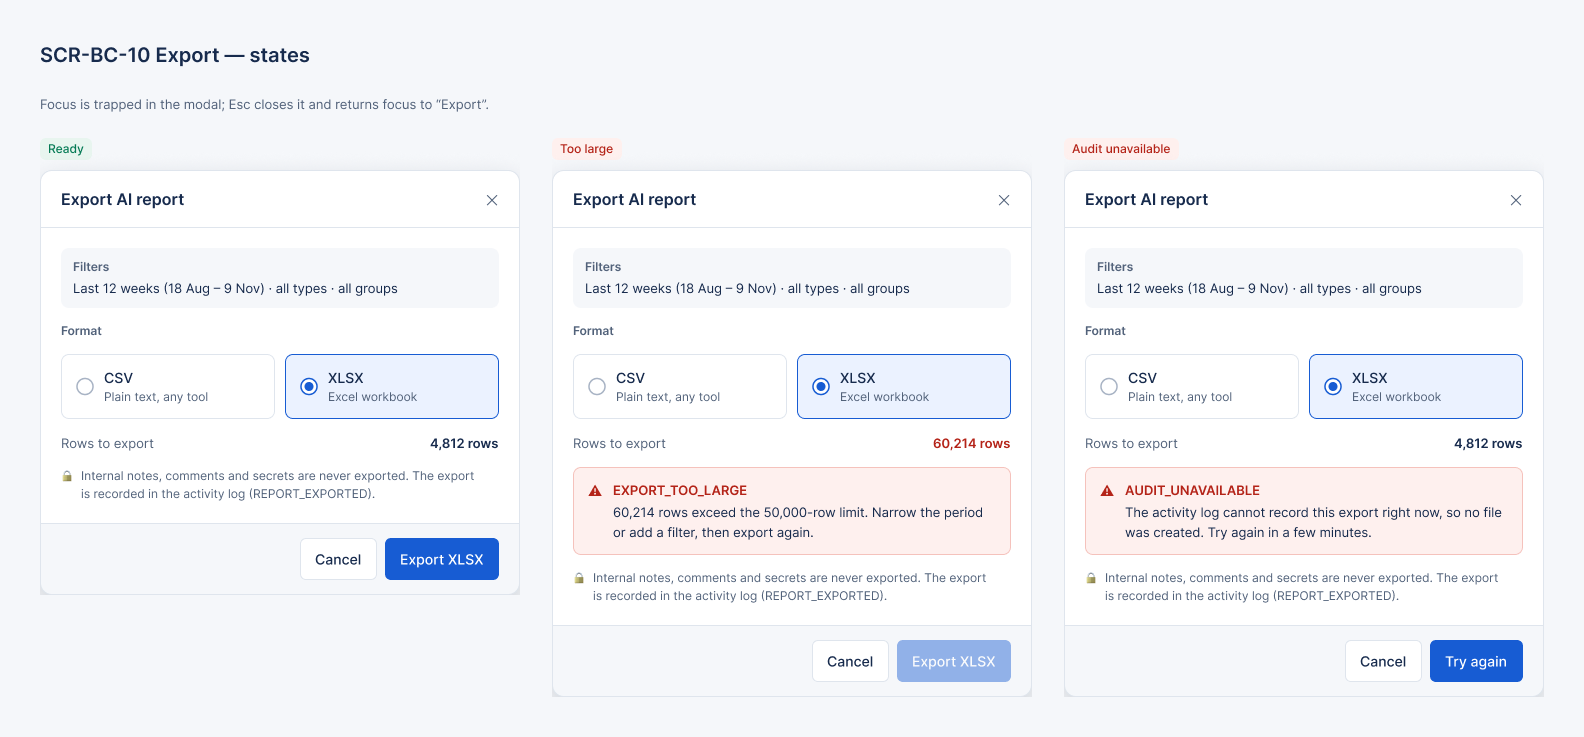
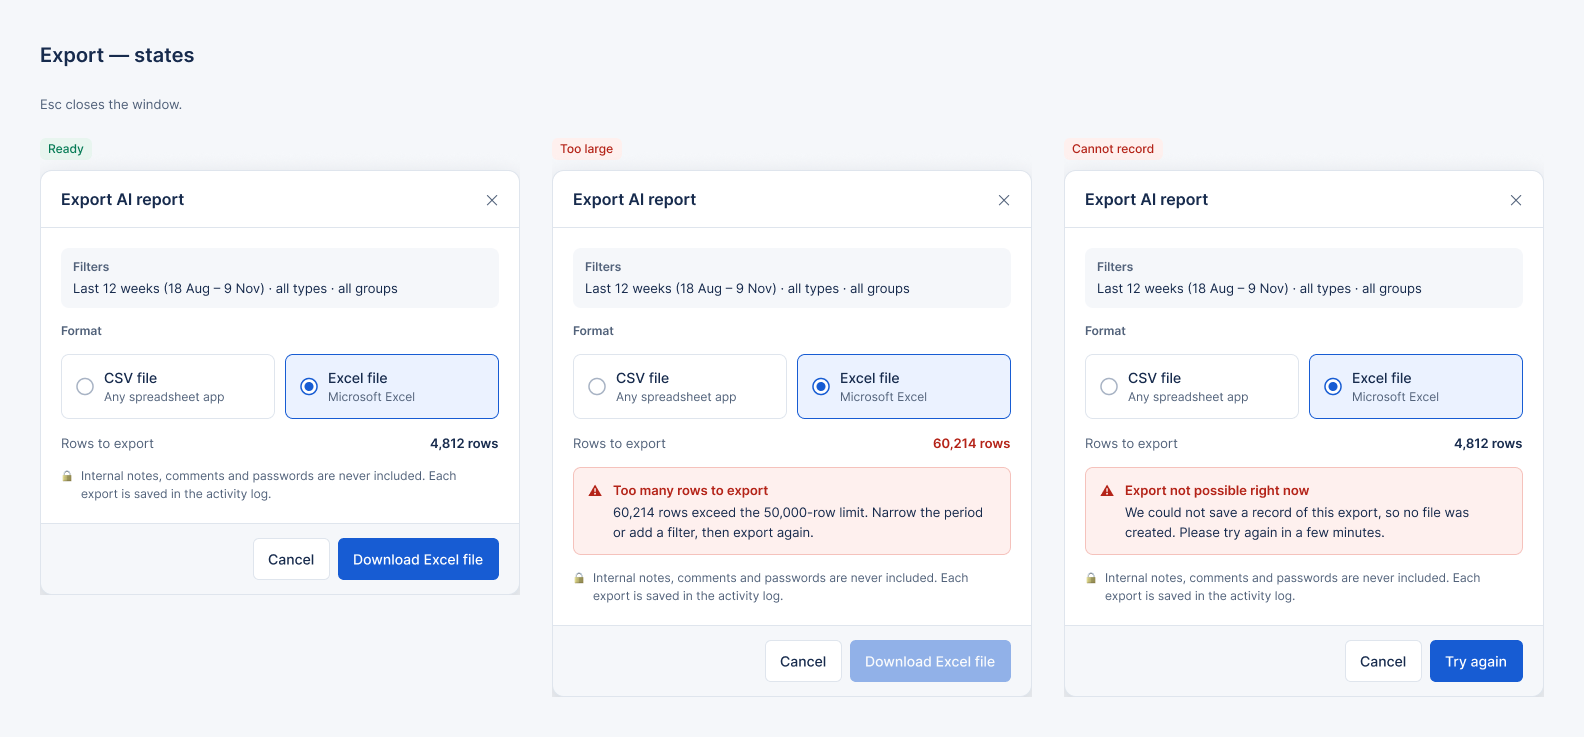
Rewrite governance screens in plain language for non-technical users
The Analytics, Audit, and Users & teams screens showed internal codes
(event names, error codes, metric ids, screen ids, category codes, raw
ids, HTTP request/response bodies). Replace them with short sentences:

- Actions, reasons and changes are written in words ("Access given",
  "Not allowed by the directory", "Before: none / After: read only")
- The automatic action detail tells what happened as a timeline and
  says what to do next; request/response sit behind a collapsed
  "Technical details" row
- Metrics, categories and workload use plain names instead of codes

Re-export images 10-19 in docs/image/admin (01-09 untouched), update
the F07, F08 and F09 screen notes, and add the plain-language rule as
decisions D-BC-UI-07, D-NK-UI-07 and D-UM-UI-07.

Claude-Session: https://claude.ai/code/session_012VGE6sAhSJDjPvTyupzvRZ

diff --git a/docs/f08-activity-log/ui-design/01-screen-notes.md b/docs/f08-activity-log/ui-design/01-screen-notes.md
@@ -18,41 +18,41 @@ Purpose: find who did what, when and why across tickets, rules and settings, and
 
 | # | Element | Note |
 |---|---|---|
-| 1 | Filters, line 1 | Target (free text), actor type, actor, action, period. Active filters are blue. |
-| 2 | Filters, line 2 | Evidence id, agent, model version, prompt version (US-NK-10), *Clear all*. All filters are in the URL (`?actor=&actor_type=&action=&target=&evidence=&agent=&prompt_version=&from=&to=`). |
-| 3 | Table | Time (monospace), actor marker, action code, target (link: ticket → SCR-T-02, setting → its page), summary. Times in Asia/Ho_Chi_Minh (UTC+7), stated in the footer. |
-| 4 | Actor marker | Person / AI + domain agent + prompt version / Automation + rule or run (D-NK-IA-06). |
-| 5 | Correction row | `ENTRY_CORRECTION` — "Corrects entry #88207"; the old entry is not changed. |
-| 6 | Diff panel | Action and entry id; actor, ticket, target; *Before → after* with the words *Removed* / *Added*; masked values as `***` "(Hidden for security)". |
-| 7 | Evidence | `run_id` → SCR-NK-05, `decision_id` → SCR-WF-31, `analysis_id`, model / prompt version. |
-| 8 | No edit or delete | Header pill and the note at the bottom of the panel (D-NK-IA-05). |
+| 1 | Filters, line 1 | Search (free text, e.g. "Accounting shared folder"), *Done by* (person / AI / automatic rule), person, action, period. Active filters are blue. |
+| 2 | Filters, line 2 | Ticket number, AI assistant, AI version (US-NK-10), *Clear all*. All filters are in the URL (`?actor=&actor_type=&action=&target=&evidence=&agent=&prompt_version=&from=&to=`). |
+| 3 | Table | Time, *Done by*, action as words ("Access given", "Sent to a technician"; the code is kept for filtering only), *About* (link: ticket → SCR-T-02, setting → its page), details as a sentence ("Lan Nguyen can now open the folder (read only)"). Times in Asia/Ho_Chi_Minh (UTC+7), stated in the footer. |
+| 4 | Done by | Person with role / **AI** badge + assistant name + "decided on its own" / Automation + rule name (D-NK-IA-06). |
+| 5 | Correction row | "Correction added" — "Fixes an earlier entry: wrong person named"; the old entry is not changed. |
+| 6 | Side panel | Action and time; done by, ticket, about; **What changed** written as sentences ("Before — Access: none", "After — Access: can open, cannot edit", "Added to group: Finance – Accounting (read only)"); passwords shown as "hidden for security". |
+| 7 | Related | *Open the automatic action* → SCR-NK-05, *See why the AI approved* → SCR-WF-31, AI version. Raw ids (`run_id`, `decision_id`) are not shown. |
+| 8 | No edit or delete | Header pill and the note "Entries cannot be changed or deleted. To fix a mistake, an administrator adds a correction." (D-NK-IA-05). |
 
 | State | Source | Behavior |
 |---|---|---|
 | default | `READY` | As in the PNG; first row selected. |
 | loading | `LOADING` | Skeleton rows; filters stay usable. |
-| empty | `EMPTY` | "No events for these filters. Clear a filter or widen the period." |
-| masked | `MASKED` | `***` with the tooltip "Hidden for security", in the diff panel. |
-| invalid period | `ERROR` `422 INVALID_DATE_RANGE` | Message under the filters; previous results kept. |
+| empty | `EMPTY` | "Nothing found — No entries match. Remove a filter or choose a longer period." |
+| masked | `MASKED` | "hidden for security" in place of the value. |
+| invalid period | `ERROR` `422 INVALID_DATE_RANGE` | "Period too long — Choose a period of one year or less." Previous results kept. |
 | not admin | `FORBIDDEN` | SCR-90; the Audit group is not in the sidebar. |
 
 Accessibility: rows and evidence links are reachable by keyboard; Esc closes the panel and returns focus to its row; removed / added values are labelled in text, not only by color.
 
-### SCR-NK-04 Workflow runs — `/audit/workflow-runs` · Admin · [PNG](../../image/admin/15_SCR-NK-04_Workflow-runs.png)
+### SCR-NK-04 Workflow runs (shown as "Automatic actions") — `/audit/workflow-runs` · Admin · [PNG](../../image/admin/15_SCR-NK-04_Workflow-runs.png)
 
 Purpose: find failing automated actions across tickets and the connector behind them (US-NK-06, US-NK-07).
 
-**Layout:** page header with *Export CSV*; alert banner; four counters; filter bar; table with paging; legend of the status chips.
+**Layout:** page header "Automatic actions" with *Export*; alert banner; four counters; filter bar; table with paging; legend of the status chips.
 
 ![SCR-NK-04](../../image/admin/15_SCR-NK-04_Workflow-runs.png)
 
 | # | Element | Note |
 |---|---|---|
-| 1 | Alert banner | "37 runs failed since 08:00 — all on connector AD-Directory with error PERMANENT_4XX" with *Filter these runs* (Flow 3, step 2). |
+| 1 | Alert banner | "37 automatic actions failed since 08:00. The company directory refused them: the service desk account is not allowed to make these changes." with *Show these* (Flow 3, step 2). |
 | 2 | Counters | In progress, Succeeded, Failed, Resolved manually — counters by status. |
-| 3 | Filters | Ticket or run id, status, error type, operation, connector, period (`?status=&error=&operation=&connector=&ticket=&from=&to=`). |
-| 4 | Table | Run id → SCR-NK-05, ticket → SCR-T-02, operation, status chip, error type, attempts, started, duration. |
-| 5 | Status chips | In progress groups `QUEUED`, `RUNNING`, `RETRY_WAIT`, `VERIFYING`; the exact status is in the tooltip. |
+| 3 | Filters | Ticket number, status, reason ("Not allowed"), action, system ("Company directory"), period (`?status=&error=&operation=&connector=&ticket=&from=&to=`). |
+| 4 | Table | No. (#903 → SCR-NK-05), ticket → SCR-T-02, action in words ("Add to group", "Reset MFA", "Give folder access"), status chip, reason in words ("Not allowed"), tries, started, took. |
+| 5 | Status chips | In progress groups `QUEUED`, `RUNNING`, `RETRY_WAIT`, `VERIFYING`; hovering shows the step in words. |
 
 | State | Source | Behavior |
 |---|---|---|
@@ -63,26 +63,26 @@ Purpose: find failing automated actions across tickets and the connector behind 
 | invalid period | `ERROR` | Message under the filters; previous results kept. |
 | not admin | `FORBIDDEN` | SCR-90; technicians see runs in the ticket's Automation tab. |
 
-### SCR-NK-05 Workflow run detail — `/audit/workflow-runs/:id` · Admin · [PNG](../../image/admin/16_SCR-NK-05_Workflow-run-detail.png)
+### SCR-NK-05 Workflow run detail (shown as an automatic action) — `/audit/workflow-runs/:id` · Admin · [PNG](../../image/admin/16_SCR-NK-05_Workflow-run-detail.png)
 
-Purpose: see why one run failed: each attempt with the masked request and response (US-NK-06, US-NK-09).
+Purpose: understand in plain words why one automatic action failed and what to do next (US-NK-06, US-NK-09).
 
-**Layout:** back link *‹ Workflow runs*; header with run id, operation, *Open ticket*; summary card; failure banner; attempts card; note on actions.
+**Layout:** back link *‹ Automatic actions*; title as a sentence ("Add Bao Vu to the Marketing shared folder"), *Open ticket*; summary card; failure banner; **What happened** card; note on actions.
 
 ![SCR-NK-05](../../image/admin/16_SCR-NK-05_Workflow-run-detail.png)
 
 | # | Element | Note |
 |---|---|---|
-| 1 | Summary | Ticket, requester, connector, started by (Automation · AI decision → SCR-WF-31), operation, who got the ticket after the failure. Status chip and error type in the card header. |
-| 2 | Failure banner | "Approved — execution failed", the reason, and that the ticket went to a technician (`FAILED_STEP`). |
-| 3 | Attempts | One card per attempt: time, duration, result code (warning for transient, danger for permanent); request and response side by side; tokens and accounts as `***`. |
-| 4 | Collapsed attempt | Middle attempts collapse to one line. |
-| 5 | Action note | *Retry* and *Resolved manually* are on the ticket's Automation tab (F05 SCR-WF-20, 21); each retry adds attempts here. |
+| 1 | Summary | Ticket, requester, system ("Company directory"), why it ran (*The AI approved the request* → SCR-WF-31), change in words, who handles it now. Status chip and the reason ("Not allowed by the directory") in the card header. |
+| 2 | Failure banner | "Approved, but the change could not be made" with the reason in one sentence and who got the ticket (`FAILED_STEP`). |
+| 3 | What happened | A timeline in plain words: "Tried to add Bao Vu to the group — the company directory was busy…", "Tried again", "Refused — the service desk account is not allowed…", "Handed to a technician". Dot color: amber = temporary problem, red = refused, blue = handed over. |
+| 4 | What to do next | Numbered steps: ask the directory administrator for permission, then *Try again* on the ticket. |
+| 5 | Technical details | Collapsed row "Technical details for the IT developer team"; only there are the masked request and response shown. *Try again* and *Resolved manually* stay on the ticket's Automation tab (F05 SCR-WF-20, 21). |
 
 | State | Source | Behavior |
 |---|---|---|
 | failed | `FAILED_STEP` | As in the PNG. |
-| succeeded | `READY` | No failure banner; status chip ✓ Succeeded; attempts show the verification step. |
-| in progress | `READY` | Chip ◷ In progress; the last attempt shows "waiting for retry" with the next time. |
-| audit unavailable | AC-NK-09.1, BR-NK-06 | Chip ✕ Failed with `AUDIT_UNAVAILABLE`; banner "The 'execution started' entry could not be written, so the connector was not called. The ticket went to a technician." No attempt cards. |
+| succeeded | `READY` | No failure banner; status chip ✓ Succeeded; the timeline ends with "Checked: the change is in place". |
+| in progress | `READY` | Chip ◷ In progress; the last line says "Will try again at 09:55". |
+| audit unavailable | AC-NK-09.1, BR-NK-06 (`AUDIT_UNAVAILABLE`) | Chip ✕ Failed; banner "The change was not made because it could not be recorded in the activity log. The ticket went to a technician." |
 | not admin | `FORBIDDEN` | SCR-90. |

diff --git a/docs/f07-reports-analytics/ui-design/01-screen-notes.md b/docs/f07-reports-analytics/ui-design/01-screen-notes.md
@@ -12,21 +12,21 @@ Each screen lists its purpose, its layout, the elements worth noting and its sta
 
 Purpose: show whether the AI is on track for the self-resolution target, why tickets still go to a person, and whether the AI output is good (US-BC-04, US-BC-08, US-BC-09).
 
-**Layout:** page header (title "Reports", *Export*); tabs Tickets / SLA / **AI** / Satisfaction; filter bar; five tiles; two rows of two cards; the Quality card full width.
+**Layout:** page header (title "Reports", subtitle "Click any number to see the tickets behind it", *Export*); tabs Tickets / SLA / **AI** / Satisfaction; filter bar; five tiles; two rows of two cards; the Quality card full width.
 
 ![SCR-BC-03](../../image/admin/10_SCR-BC-03_Reports-AI.png)
 
 | # | Element | Note |
 |---|---|---|
-| 1 | Filter bar | Period (default *Last 12 weeks*, highlighted when not the default), type, domain, group, priority, channel, handler. The line under it is "Parameters in use: Asia/Ho_Chi_Minh · N = 7 days · target 50%". Filters live in the URL (D-BC-IA-01). |
-| 2 | Tile **AI self-resolution (M-04)** | 41.2% with "3,280 of 7,962 · last full week": a rate always comes with its count (UI states §3). |
-| 3 | Tile **Under observation** | 312 tickets closed less than N days ago; not counted in M-04 yet (`UNDER_OBSERVATION`). |
-| 4 | Tiles **Auto-approved (A)**, **Asked back (B)**, **Routed to person (C)** | M-08 routing outcome with counts. |
-| 5 | Chart **AI self-resolution by week** | Weekly purple line, dashed red **Target 50%** line, **AI** badge, *View as table*, and a text summary under the chart. |
-| 6 | Card **Self-resolved by path** | Automation, agent KB answer, self-help, after an AI question; then the split by domain agent. |
-| 7 | Card **Route C — why tickets went to a person** | Ranked reasons; each reason opens SCR-T-04 with the same filters (Flow 1, step 4). |
-| 8 | Card **Escalations by class (M-10)** | `escalationClass` codes with count and share. |
-| 9 | Card **Quality** | Filters *Model* and *Prompt*; tiles M-05, M-06, M-11; table of recent corrected classifications (AI category → human category, by, prompt version). |
+| 1 | Filter bar | Period (default *Last 12 weeks*, highlighted when not the default), type, domain, group, priority, channel, handler. The line under it says, in words, which settings are used: "Vietnam time · a ticket counts as solved by the AI only if it is not reopened within 7 days · target 50%". Filters live in the URL (D-BC-IA-01). |
+| 2 | Tile **Solved by AI alone** (M-04) | 41.2% with "3,280 of 7,962 · last full week": a rate always comes with its count (UI states §3). |
+| 3 | Tile **Not counted yet** | 312 tickets closed in the last 7 days; not counted in M-04 yet (`UNDER_OBSERVATION`). |
+| 4 | Tiles **Done automatically**, **AI asked for details**, **Sent to a technician** | M-08 routes A, B, C with counts. |
+| 5 | Chart **Tickets solved by AI alone, week by week** | Weekly purple line, dashed red **Target 50%** line, **AI** badge, *View as table*, and a summary in plain words under the chart ("In short: …"). |
+| 6 | Card **How the AI solved them** | "Did the change itself", "Answered with a help article", "User found an answer before sending", "After the AI asked for details"; then the split by AI assistant (domain agent). |
+| 7 | Card **Why tickets still went to a technician** | Ranked reasons in plain words (e.g. "Requested access is not on the approved list"); each reason opens the ticket list SCR-T-04 with the same filters (Flow 1, step 4). |
+| 8 | Card **Why the AI handed tickets over** (M-10) | Each `escalationClass` shown as a sentence: "AI could not fix it" (`AGENT_CANNOT_RESOLVE`), "User said it was not fixed", "AI was not sure enough", "Automatic change failed", "AI was offline". |
+| 9 | Card **How accurate the AI is** | Filters *AI version* and *Compare with* (model / prompt version, US-BC-09); tiles "Wrong category, fixed by technicians" (M-05), "Closed by AI, then reopened" (M-06), "AI answer did not help" (M-11); table of recently corrected categories using category names ("Printer" → "Docking & monitors"), never codes. |
 
 | State | Source | Behavior |
 |---|---|---|
@@ -47,13 +47,13 @@ Purpose: set the parameters that change how figures are computed for everyone, a
 
 | # | Element | Note |
 |---|---|---|
-| 1 | Header note | "Changes apply to every report and are recorded in the activity log (`REPORT_CONFIG_UPDATED`)" (BR-BC-05). |
-| 2 | Info banner | "SLA targets are not set here" with the link *Open SLA policies (SCR-WF-02)*. |
+| 1 | Header note | "Changes affect every report. Each change is saved in the activity log." (logged as `REPORT_CONFIG_UPDATED`, BR-BC-05). |
+| 2 | Info banner | "Response and resolution targets are not set here" with the link *Open SLA policies* (SCR-WF-02). |
 | 3 | Card header meta | "Last changed by Thu Le · 3 Nov 2026 09:12". |
-| 4 | Observation window (N) | Read-only input, tag "Read-only · from F03". |
-| 5 | AI self-resolution target, low-response threshold, maximum report period | Number inputs with unit and allowed range. |
-| 6 | Export row limit, formats | Limit used by `EXPORT_TOO_LARGE`; note that notes, comments and secrets are never exported. |
-| 7 | Weekly digest | Schedule badge (Monday 08:00, Asia/Ho_Chi_Minh), recipients as removable chips, *Send test digest* with the last test time. |
+| 4 | **Wait before counting as solved** (N) | Read-only input, tag "Set in ticket settings" (F03 reopen window). |
+| 5 | **Target for tickets solved by AI**, **Minimum share of users who rate**, **Maximum report period** | Number inputs with unit, allowed range and a help sentence. |
+| 6 | Export row limit, formats | "Bigger exports are stopped and the user is asked to choose a shorter period" (`EXPORT_TOO_LARGE`); formats CSV and Excel. |
+| 7 | **Weekly summary e-mail** (EML-BC-01) | Schedule badge "Every Monday at 8:00", recipients as removable chips, *Send me a test* with the last test time. |
 
 | State | Source | Behavior |
 |---|---|---|
@@ -74,15 +74,15 @@ Purpose: download the figures of the current tab with its filters as CSV or XLSX
 | # | Element | Note |
 |---|---|---|
 | 1 | Filters | The filters of the tab, read-only; the export uses exactly these. |
-| 2 | Format | Two radio cards, CSV and XLSX. |
+| 2 | Format | Two radio cards, "CSV file" and "Excel file". |
 | 3 | Rows to export | Count before export; red when above the limit. |
-| 4 | Note | "Internal notes, comments and secrets are never exported. The export is recorded in the activity log (`REPORT_EXPORTED`)." |
+| 4 | Note | "Internal notes, comments and passwords are never included. Each export is saved in the activity log." (logged as `REPORT_EXPORTED`). |
 
 | State | Source | Behavior |
 |---|---|---|
-| Ready | Initial | 4,812 rows, *Export XLSX* enabled. |
-| Too large | `EXPORT_TOO_LARGE` (Flow 3, branch 3) | 60,214 rows; danger banner asks to narrow the period or add a filter; *Export* disabled. |
-| Audit unavailable | `AUDIT_UNAVAILABLE` (Flow 3, branch 4) | No file is created; banner asks to try later; the primary button becomes *Try again*. |
+| Ready | Initial | 4,812 rows, *Download Excel file* enabled. |
+| Too large | `EXPORT_TOO_LARGE` (Flow 3, branch 3) | 60,214 rows; banner "Too many rows to export" asks to narrow the period or add a filter; the download button is disabled. |
+| Cannot record | `AUDIT_UNAVAILABLE` (Flow 3, branch 4) | Banner "Export not possible right now": no file is created, try again in a few minutes; the primary button becomes *Try again*. |
 | exporting | Saving / Processing | Button "Exporting…" disabled; the modal stays open until the file starts downloading. |
 
 Accessibility: focus is trapped in the modal, Esc closes it, and focus returns to *Export* (UI states §5).

diff --git a/docs/f09-user-management/ui-design/01-screen-notes.md b/docs/f09-user-management/ui-design/01-screen-notes.md
@@ -18,10 +18,10 @@ Purpose: find users, see their role, access scope and availability, and enable o
 
 | # | Element | Note |
 |---|---|---|
-| 1 | Header meta | "Synced from the company directory · last sync today 10:02 · every change is logged". |
+| 1 | Header meta | "Copied from the company directory · last updated today 10:02". |
 | 2 | Filters | Name or e-mail, role, department, team, status. In the PNG: *Role: Technician*. |
 | 3 | Bulk action bar | "2 selected" with Enable, Disable, Change role, Add to team, *Clear selection*. Selected rows are blue. |
-| 4 | Table | Checkbox, name + e-mail, department, role badge, access scope (teams), availability (`ON · 7 / 12` or `OFF · on leave`), status badge, last sign-in. |
+| 4 | Table | Checkbox, name + e-mail, department, role badge, teams, availability ("Available · 7 tickets" or "Away · on leave"), status badge, last sign-in. |
 | 5 | Row actions | *Edit* (opens SCR-UM-02), *Disable* / *Enable*, *Log* (SCR-NK-02 filtered on the user). |
 | 6 | Note | Disabling signs the user out and returns open tickets to the team queue; *Add user* is for staff not in the directory. |
 
@@ -46,8 +46,8 @@ Purpose: change a user's role, access scope and assignment settings, or disable 
 |---|---|---|
 | 1 | Profile | Display name and department read-only (from the directory). |
 | 2 | Role | Three radio cards: Requester, Technician, Administrator, each with one line on what it allows. |
-| 3 | Access scope | Tree of teams and sub-groups with checkboxes; a parent with some children checked shows a partial mark. Required for Technician. |
-| 4 | Assignment | Toggle *Available for automatic assignment (ON)* and *Maximum open tickets*. |
+| 3 | Teams they work for (access scope) | Tree of teams and sub-groups with checkboxes; a parent with some children checked shows a partial mark. Required for Technician. |
+| 4 | Assignment | Toggle *Can receive new tickets automatically* and *Most tickets at once*. |
 | 5 | Account status | Red zone: "Disabling signs Minh out now and returns 7 open tickets to Network L1 / L2 queues", *Disable user*. |
 | 6 | Footer | *View log for this user →*, *Cancel*, *Save changes*. |
 
@@ -73,19 +73,19 @@ Purpose: maintain the structure that routing uses: teams, sub-groups, the subcat
 
 | # | Element | Note |
 |---|---|---|
-| 1 | Header text | "A ticket goes to the group of its domain, then the sub-group of its subcategory, then a member who is ON and least loaded." |
-| 2 | Structure tree | Teams with their domain (`NETWORK/*`) and member count; sub-groups indented; the selected node has a blue bar. *Triage queue* is the default team. |
-| 3 | Empty sub-group | Badge *Empty* in the tree (Wi-Fi). |
-| 4 | Team header | Name, "Sub-group of Network", support level `L1`; *View log*, *Add sub-group*, *Edit*. |
-| 5 | Properties | Subcategories handled (`NETWORK/VPN`, `NETWORK/LAN`, `NETWORK/DNS`), AI agent as first handler, business calendar. |
-| 6 | Counters | Members ON, open tickets (with the number waiting in the team queue), average workload score. |
-| 7 | Members | Add by name; table with availability toggle and reason, open / max bar (red above 85%), workload score, *Remove*. |
-| 8 | Warning | "Sub-group Wi-Fi has no members. Its NETWORK/WIFI tickets go to Network L1 until someone is added." |
+| 1 | Header text | "New tickets go to the right team first, then to the least busy person who is available." |
+| 2 | Structure tree | Teams with member count; sub-groups indented; the selected node has a blue bar. *Triage queue* "catches unclear tickets". |
+| 3 | Empty sub-group | Badge *No members* in the tree (Wi-Fi). |
+| 4 | Team header | Name, "Part of Network", "Level 1"; *View log*, *Add sub-group*, *Edit*. |
+| 5 | Properties | "Handles requests about" VPN, Office network, Website names (DNS) — category names, never codes; "AI assistant (tries first)"; working hours. |
+| 6 | Counters | Available now, open tickets ("5 not yet picked up"), how busy the team is ("Normal") instead of a numeric workload score. |
+| 7 | Members | Add by name; table with availability toggle ("Available" / "Away · on leave"), tickets now (bar, red above 85%), busy level (Light / Normal / High), *Remove*. |
+| 8 | Warning | "Wi-Fi has no members yet. Wi-Fi tickets go to Network L1 until someone is added." |
 
 | State | Source | Behavior |
 |---|---|---|
 | default | Initial | Network L1 selected. |
 | empty team selected | Empty | "No members yet" with *Add member*, and the warning of #8. |
-| subcategory taken | Validation | Adding a subcategory already handled by another sub-group: "NETWORK/VPN is handled by Network L2. Move it here?" |
+| subcategory taken | Validation | Adding a request type already handled by another sub-group: "VPN is handled by Network L2. Move it here?" |
 | saving | Saving / Processing | Member row shows a spinner while the change is saved. |
 | not admin | 403 | SCR-90. |

diff --git a/docs/f08-activity-log/ui-design/README.md b/docs/f08-activity-log/ui-design/README.md
@@ -6,11 +6,11 @@
 
 This folder turns the F08 [information architecture](../information-architecture/README.md) into high-fidelity screens. They were drawn in Figma on the shared template *Service Desk UI – DS-01 Relay* (row **5 · Governance detail — Audit (F08)**) and exported to PNG. The scope is the **Audit** area of the Admin: the activity log and the workflow runs with their detail page.
 
-The screens show the F08 rules on a page: no edit, delete or hide control anywhere (D-NK-IA-05), every entry says who did it with an icon and text (D-NK-IA-06), secrets are always `***` (BR-NK-03), and every automated entry links to its evidence. Inputs: [Screens and navigation](../information-architecture/01-screens-and-navigation.md), [User flows](../information-architecture/02-user-flows.md), [UI states](../information-architecture/03-ui-states-and-accessibility.md) and [Acceptance criteria](../04-acceptance-criteria.md).
+The screens show the F08 rules on a page: no edit, delete or hide control anywhere (D-NK-IA-05), every entry says who did it with an icon and text (D-NK-IA-06), passwords are always hidden (BR-NK-03), every automated entry links to what caused it, and everything is written in plain words for non-technical readers (D-NK-UI-07). Inputs: [Screens and navigation](../information-architecture/01-screens-and-navigation.md), [User flows](../information-architecture/02-user-flows.md), [UI states](../information-architecture/03-ui-states-and-accessibility.md) and [Acceptance criteria](../04-acceptance-criteria.md).
 
 | File | Content |
 |---|---|
-| [00-decisions.md](00-decisions.md) | Design decisions D-NK-UI-01 … D-NK-UI-06, what is not drawn yet |
+| [00-decisions.md](00-decisions.md) | Design decisions D-NK-UI-01 … D-NK-UI-07, what is not drawn yet |
 | [01-screen-notes.md](01-screen-notes.md) | Per screen: purpose, layout, annotated elements, and every state |
 | [`../../image/admin/`](../../image/admin/) | PNG exports of the Figma frames (shared Admin image folder) |
 | [Figma file](https://www.figma.com/design/Dfak5zzpiXKxVEqvTOZLdJ/Service-Desk-UI-%E2%80%93-DS-01-Relay?node-id=0-1) | Source frames; the same names as the PNGs below |
@@ -32,9 +32,9 @@ Same template and tokens as the other Admin pages (see [F07 UI design](../../f07
 | Part | Value |
 |---|---|
 | Shell | Module tab **Activity log** active; sidebar group **Audit** with *Activity log* and *Workflow runs* (badge = failed runs today) |
-| Codes and times | Cousine (monospace) for action codes, run ids, times and request / response bodies |
-| Actor marker | Person: 👤 icon + name + role; AI: `AI` badge (purple) + domain agent + prompt version; Automation: ⚙ icon + "Automation" + rule or run |
+| Language | Plain sentences only (D-NK-UI-07): actions, reasons and changes in words; no event codes, error codes or raw ids. Cousine (monospace) only for times |
+| *Done by* marker | Person: 👤 icon + name + role; AI: `AI` badge (purple) + assistant name + "decided on its own"; Automation: ⚙ icon + "Automation" + rule name |
 | Run status chips | ◷ In progress (info), ✓ Succeeded (success), ✕ Failed (danger), 👤 Resolved manually (neutral) — icon and text, never color alone (UI states §3) |
-| Diff | Removed line on red `#FEF0EE` with the word *Removed*; added line on green `#E8F5EF` with the word *Added* |
+| What changed | Old value on red `#FEF0EE` with the word *Before*; new value on green `#E8F5EF` with the word *After*; other changes as plain lines |
 
 **Related:** [F08 README](../README.md) · [Information architecture](../information-architecture/README.md) · [Decisions](00-decisions.md) · [Screen notes](01-screen-notes.md)

diff --git a/docs/f08-activity-log/ui-design/00-decisions.md b/docs/f08-activity-log/ui-design/00-decisions.md
@@ -8,12 +8,13 @@
 
 | ID | Decision | Why |
 |---|---|---|
-| D-NK-UI-01 | The activity log is a table with a **diff side panel** for the selected row (selected row: blue background and a 3 px left bar). | Matches UI states §4 (≥ 1200 px); the Admin compares entries without leaving the list. |
+| D-NK-UI-01 | The activity log is a table with a **side panel showing what changed** for the selected row (selected row: blue background and a 3 px left bar). | Matches UI states §4 (≥ 1200 px); the Admin compares entries without leaving the list. |
 | D-NK-UI-02 | A grey pill "🔒 Append-only · no edit or delete" sits in the page header, and the panel ends with "This entry cannot be edited or deleted". | Makes D-NK-IA-05 visible instead of only hiding controls. |
 | D-NK-UI-03 | Corrections are ordinary rows with the action `ENTRY_CORRECTION` and the text "Corrects entry #…" linking to the old entry. | The old entry stays unchanged (UI states §1, *Correction*). |
 | D-NK-UI-04 | Workflow runs opens with a danger banner when one connector causes most failures, with *Filter these runs*. | Flow 3: the Admin finds the broken connector in one click. |
-| D-NK-UI-05 | Run detail shows attempts as cards with request and response side by side in a dark code block; attempts in the middle are collapsed to one line. | Long runs stay short; the first and the last attempt explain the failure. |
+| D-NK-UI-05 | Run detail tells the story as a timeline of sentences ("Tried…", "Refused…", "Handed to a technician") followed by **What to do next**; request and response are only in a collapsed "Technical details for the IT developer team" row. | The Admin needs the reason and the next step, not the HTTP exchange. |
 | D-NK-UI-06 | Run detail has no *Retry* or *Resolved manually* button; a note points to the ticket's Automation tab. | F05 owns those actions (D-NK-IA-03, SCR-WF-20 / 21). |
+| D-NK-UI-07 | **Plain language only.** The Audit pages are read by people who are not developers. Labels, messages and changes are written as short sentences ("Access given", "Not allowed by the directory"); internal codes (event names, error codes, metric ids, screen ids, category codes, raw ids, request / response bodies) are not shown. Codes stay in the data for filtering and in these docs for traceability; where a developer needs them, they sit behind a collapsed "Technical details" row. | Feedback on the first draft: the screens looked like developer logs. |
 
 ## Not drawn yet
 

diff --git a/docs/f07-reports-analytics/ui-design/README.md b/docs/f07-reports-analytics/ui-design/README.md
@@ -10,7 +10,7 @@ The screens show how the rules of F07 look on a page: every rate comes with its 
 
 | File | Content |
 |---|---|
-| [00-decisions.md](00-decisions.md) | Design decisions D-BC-UI-01 … D-BC-UI-06, what is not drawn yet |
+| [00-decisions.md](00-decisions.md) | Design decisions D-BC-UI-01 … D-BC-UI-07, what is not drawn yet |
 | [01-screen-notes.md](01-screen-notes.md) | Per screen: purpose, layout, annotated elements, and every state |
 | [`../../image/admin/`](../../image/admin/) | PNG exports of the Figma frames (shared Admin image folder) |
 | [Figma file](https://www.figma.com/design/Dfak5zzpiXKxVEqvTOZLdJ/Service-Desk-UI-%E2%80%93-DS-01-Relay?node-id=0-1) | Source frames; the same names as the PNGs below |
@@ -32,7 +32,7 @@ The frames reuse the template, so they match the other Admin pages of the file (
 | Part | Value |
 |---|---|
 | Shell | Top bar 58 px with the module tabs (*Dashboard* is active for Reports); sidebar 220 px with the groups **Reports** and **Settings**; content 1012 px wide, padding 20 / 24 |
-| Type | Inter: page title 24 Semi Bold, card title 14 Semi Bold, body 13–14, caption 12; Cousine for codes (`AGENT_CANNOT_RESOLVE`) |
+| Type | Inter: page title 24 Semi Bold, card title 14 Semi Bold, body 13–14, caption 12. Plain words only, no internal codes on screen (D-BC-UI-07) |
 | Color | Ink `#172B4D`, secondary `#52627A`, border `#DFE5ED`, page `#F5F7FA`, primary `#175CD3`, AI `#6941C6`, success `#057A55`, warning `#8A5100`, danger `#B42318` |
 | Components | Local components `WB/Button` (primary / secondary, md / sm), `WB/Badge` (info, warning, success, danger, neutral, ai), `WB/KPI card` |
 | Charts | One metric per chart, AI series in purple, target as a dashed red line with the label "Target 50%", text summary under the chart and *View as table* (UI states §3) |

diff --git a/docs/f09-user-management/ui-design/00-decisions.md b/docs/f09-user-management/ui-design/00-decisions.md
@@ -14,6 +14,7 @@
 | D-UM-UI-04 | The access scope is a **tree of teams and sub-groups** with checkboxes (a parent shows a partial mark). | Matches how F05 routes: group → sub-group → member. |
 | D-UM-UI-05 | Disabling a user is a red zone at the bottom of the drawer that says how many open tickets go back to which queue. | The effect is immediate and affects tickets; the Admin must see it before confirming. |
 | D-UM-UI-06 | Teams is a two-pane page: the structure tree on the left, the selected team on the right with its subcategories, AI agent, calendar, counters and members. A sub-group with no members shows a warning in the tree and in the detail. | An empty sub-group silently sends its tickets to the parent group; making it visible avoids surprise routing. |
+| D-UM-UI-07 | **Plain language only.** The Users and Teams pages are read by people who are not developers. Labels, messages and changes are written as short sentences ("Access given", "Not allowed by the directory"); internal codes (event names, error codes, metric ids, screen ids, category codes, raw ids, request / response bodies) are not shown. Codes stay in the data for filtering and in these docs for traceability; where a developer needs them, they sit behind a collapsed "Technical details" row. | Feedback on the first draft: the screens looked like developer logs. |
 
 ## Assumptions to confirm with the F09 specification
 

diff --git a/docs/f07-reports-analytics/ui-design/00-decisions.md b/docs/f07-reports-analytics/ui-design/00-decisions.md
@@ -14,6 +14,7 @@
 | D-BC-UI-04 | Route C reasons are a ranked list where each reason is a link with a bar and its count. | The reason opens SCR-T-04 with the same filters (D-BC-IA-04); a ranked list reads faster than a chart. |
 | D-BC-UI-05 | Report settings is one form in three cards (*How figures are computed*, *Export*, *Weekly digest*) with *Save changes* in the header. N is shown read-only with the tag "Read-only · from F03". | One audited change (`REPORT_CONFIG_UPDATED`); N belongs to F03 (BR-BC-05). |
 | D-BC-UI-06 | The export modal shows the active filters, the format, and the row count **before** export; the Export button is disabled when the count is above the limit. | Users learn about `EXPORT_TOO_LARGE` before they wait for a file (Flow 3). |
+| D-BC-UI-07 | **Plain language only.** The Reports are read by people who are not developers. Labels, messages and changes are written as short sentences ("Access given", "Not allowed by the directory"); internal codes (event names, error codes, metric ids, screen ids, category codes, raw ids, request / response bodies) are not shown. Codes stay in the data for filtering and in these docs for traceability; where a developer needs them, they sit behind a collapsed "Technical details" row. | Feedback on the first draft: the screens looked like developer logs. |
 
 ## Not drawn yet
 

diff --git a/docs/f09-user-management/ui-design/README.md b/docs/f09-user-management/ui-design/README.md
@@ -10,7 +10,7 @@ The screens follow the rules other branches already set: a technician receives t
 
 | File | Content |
 |---|---|
-| [00-decisions.md](00-decisions.md) | Design decisions D-UM-UI-01 … D-UM-UI-06, assumptions to confirm |
+| [00-decisions.md](00-decisions.md) | Design decisions D-UM-UI-01 … D-UM-UI-07, assumptions to confirm |
 | [01-screen-notes.md](01-screen-notes.md) | Per screen: purpose, layout, annotated elements, and every state |
 | [`../../image/admin/`](../../image/admin/) | PNG exports of the Figma frames (shared Admin image folder) |
 | [Figma file](https://www.figma.com/design/Dfak5zzpiXKxVEqvTOZLdJ/Service-Desk-UI-%E2%80%93-DS-01-Relay?node-id=0-1) | Source frames; the same names as the PNGs below |
